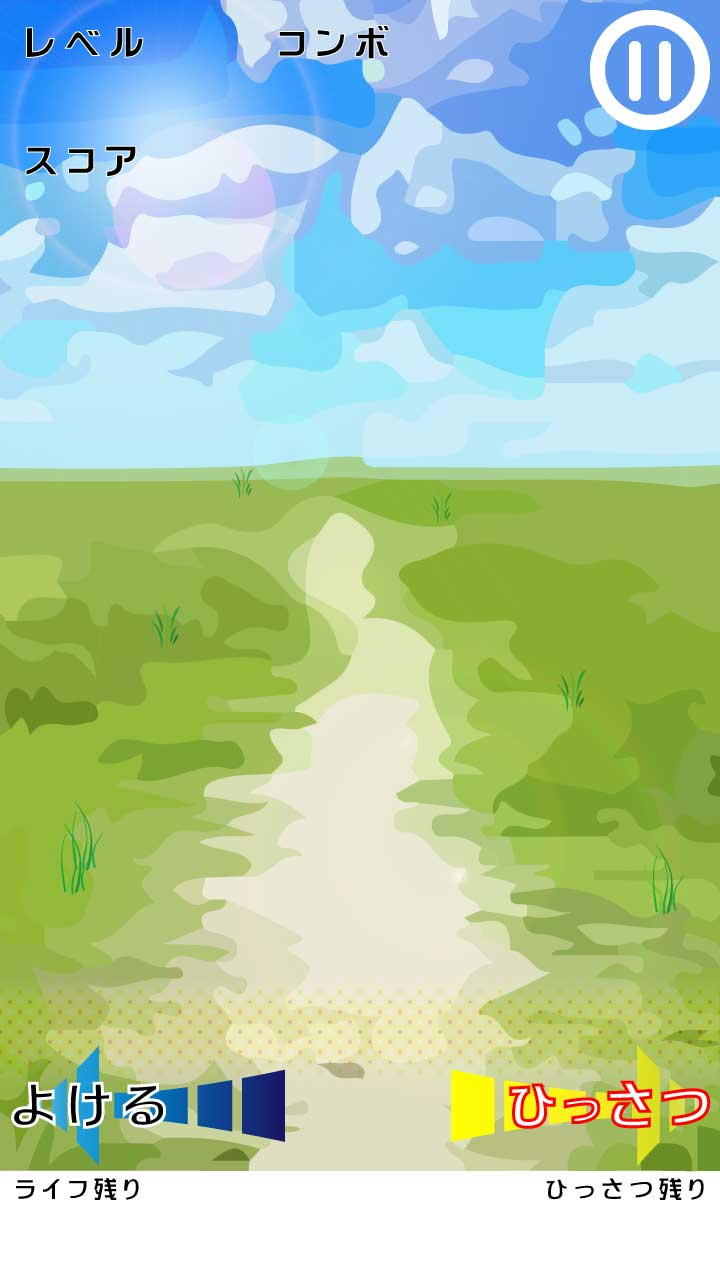
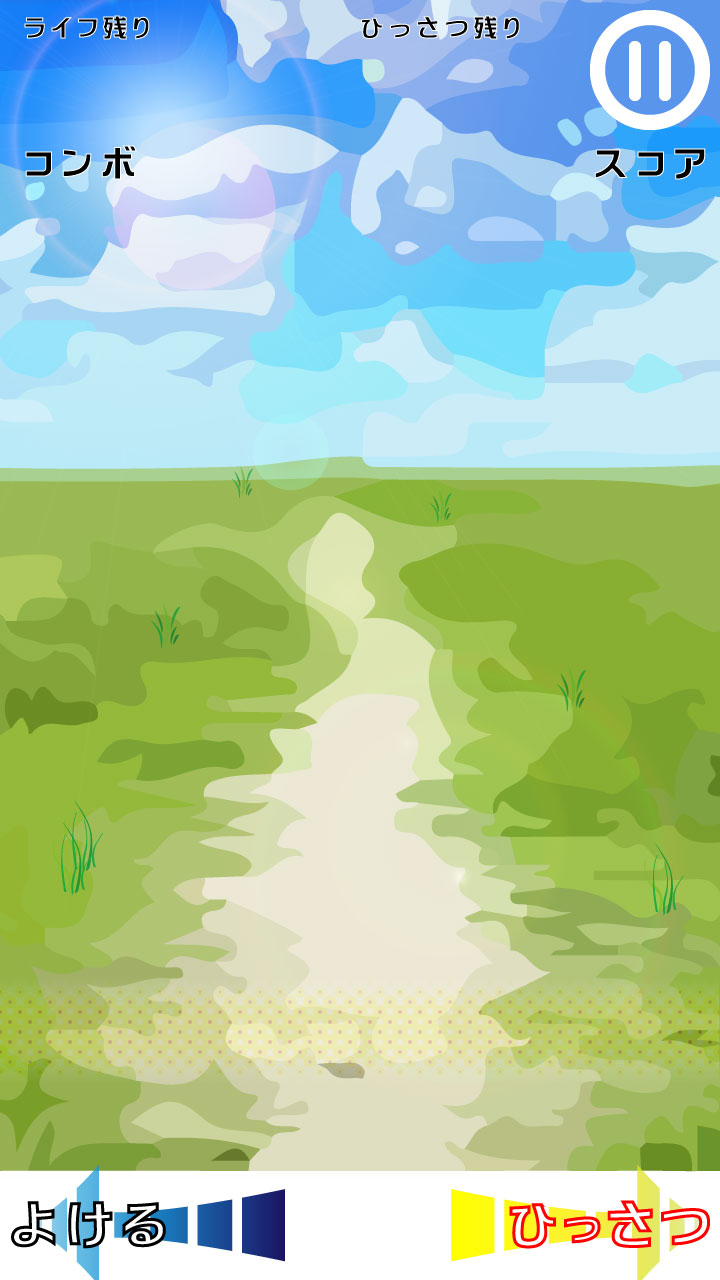
GameScreenの各要素を上部に集め、レイアウト改善

diff --git a/app/src/main/java/com/hajikoma/nowalkingphone/screen/GameScreen.java b/app/src/main/java/com/hajikoma/nowalkingphone/screen/GameScreen.java
@@ -81,9 +81,9 @@ public class GameScreen extends Screen {
     private static final int MAX_SMASH = 3;
     /** スマッシュアイコンの描画先 */
     private static final Rect SMASH_DST_RECT_ARR[] = {
-            new Rect(495, 1205, 560, 1270),
-            new Rect(570, 1205, 635, 1270),
-            new Rect(645, 1205, 710, 1270)
+            new Rect(350, 60, 415, 125),
+            new Rect(425, 60, 490, 125),
+            new Rect(500, 60, 565, 125)
     };
 
     /** 一時停止ボタンのタップ判定エリア */
@@ -229,9 +229,8 @@ public class GameScreen extends Screen {
 
         //共通部分の描画
         gra.drawPixmap(bg, 0, 0);
-        txt.drawText(String.valueOf(Assets.score.level), 20, 130, 200, fontNumber);
-        txt.drawText(String.valueOf(Assets.score.combo), 280, 130, 200, fontNumber);
-        drawGraphicalNumber(Assets.score.score, 90, 20, 220, 9);
+        txt.drawText(String.valueOf(Assets.score.combo), 20, 270, 200, fontNumber);
+        drawGraphicalNumber(Assets.score.score, 80, 220, 200, 7);
         drawLife(player.getInitLife(), player.getDamage());
         drawSmashIcon();
 
@@ -606,9 +605,9 @@ public class GameScreen extends Screen {
     /** 残りlifeゲージを描画する */
     private void drawLife(int initLife, int damage) {
         int left = 10;
-        int top = 1210;
+        int top = 50;
         int width = 10 + initLife * (10 + 5) + 5; // 左余白10＋ライフゲージバー10+バー間の余白5+右余白10(5+5)
-        int height = 60;
+        int height = 80;
         int warningZone = initLife / 2;
         int dangerZone = initLife / 5;
         int remainLife = initLife - damage;
@@ -633,7 +632,7 @@ public class GameScreen extends Screen {
         left += 10;
         top += 10;
         width = 10;
-        height = 40;
+        height -= 20;
         for (int li = 1; li <= remainLife; li++) {
             gra.drawRoundRect(left, top, width, height, 5.0f, color);
             left += 10 + 5; // バーが10、余白5
